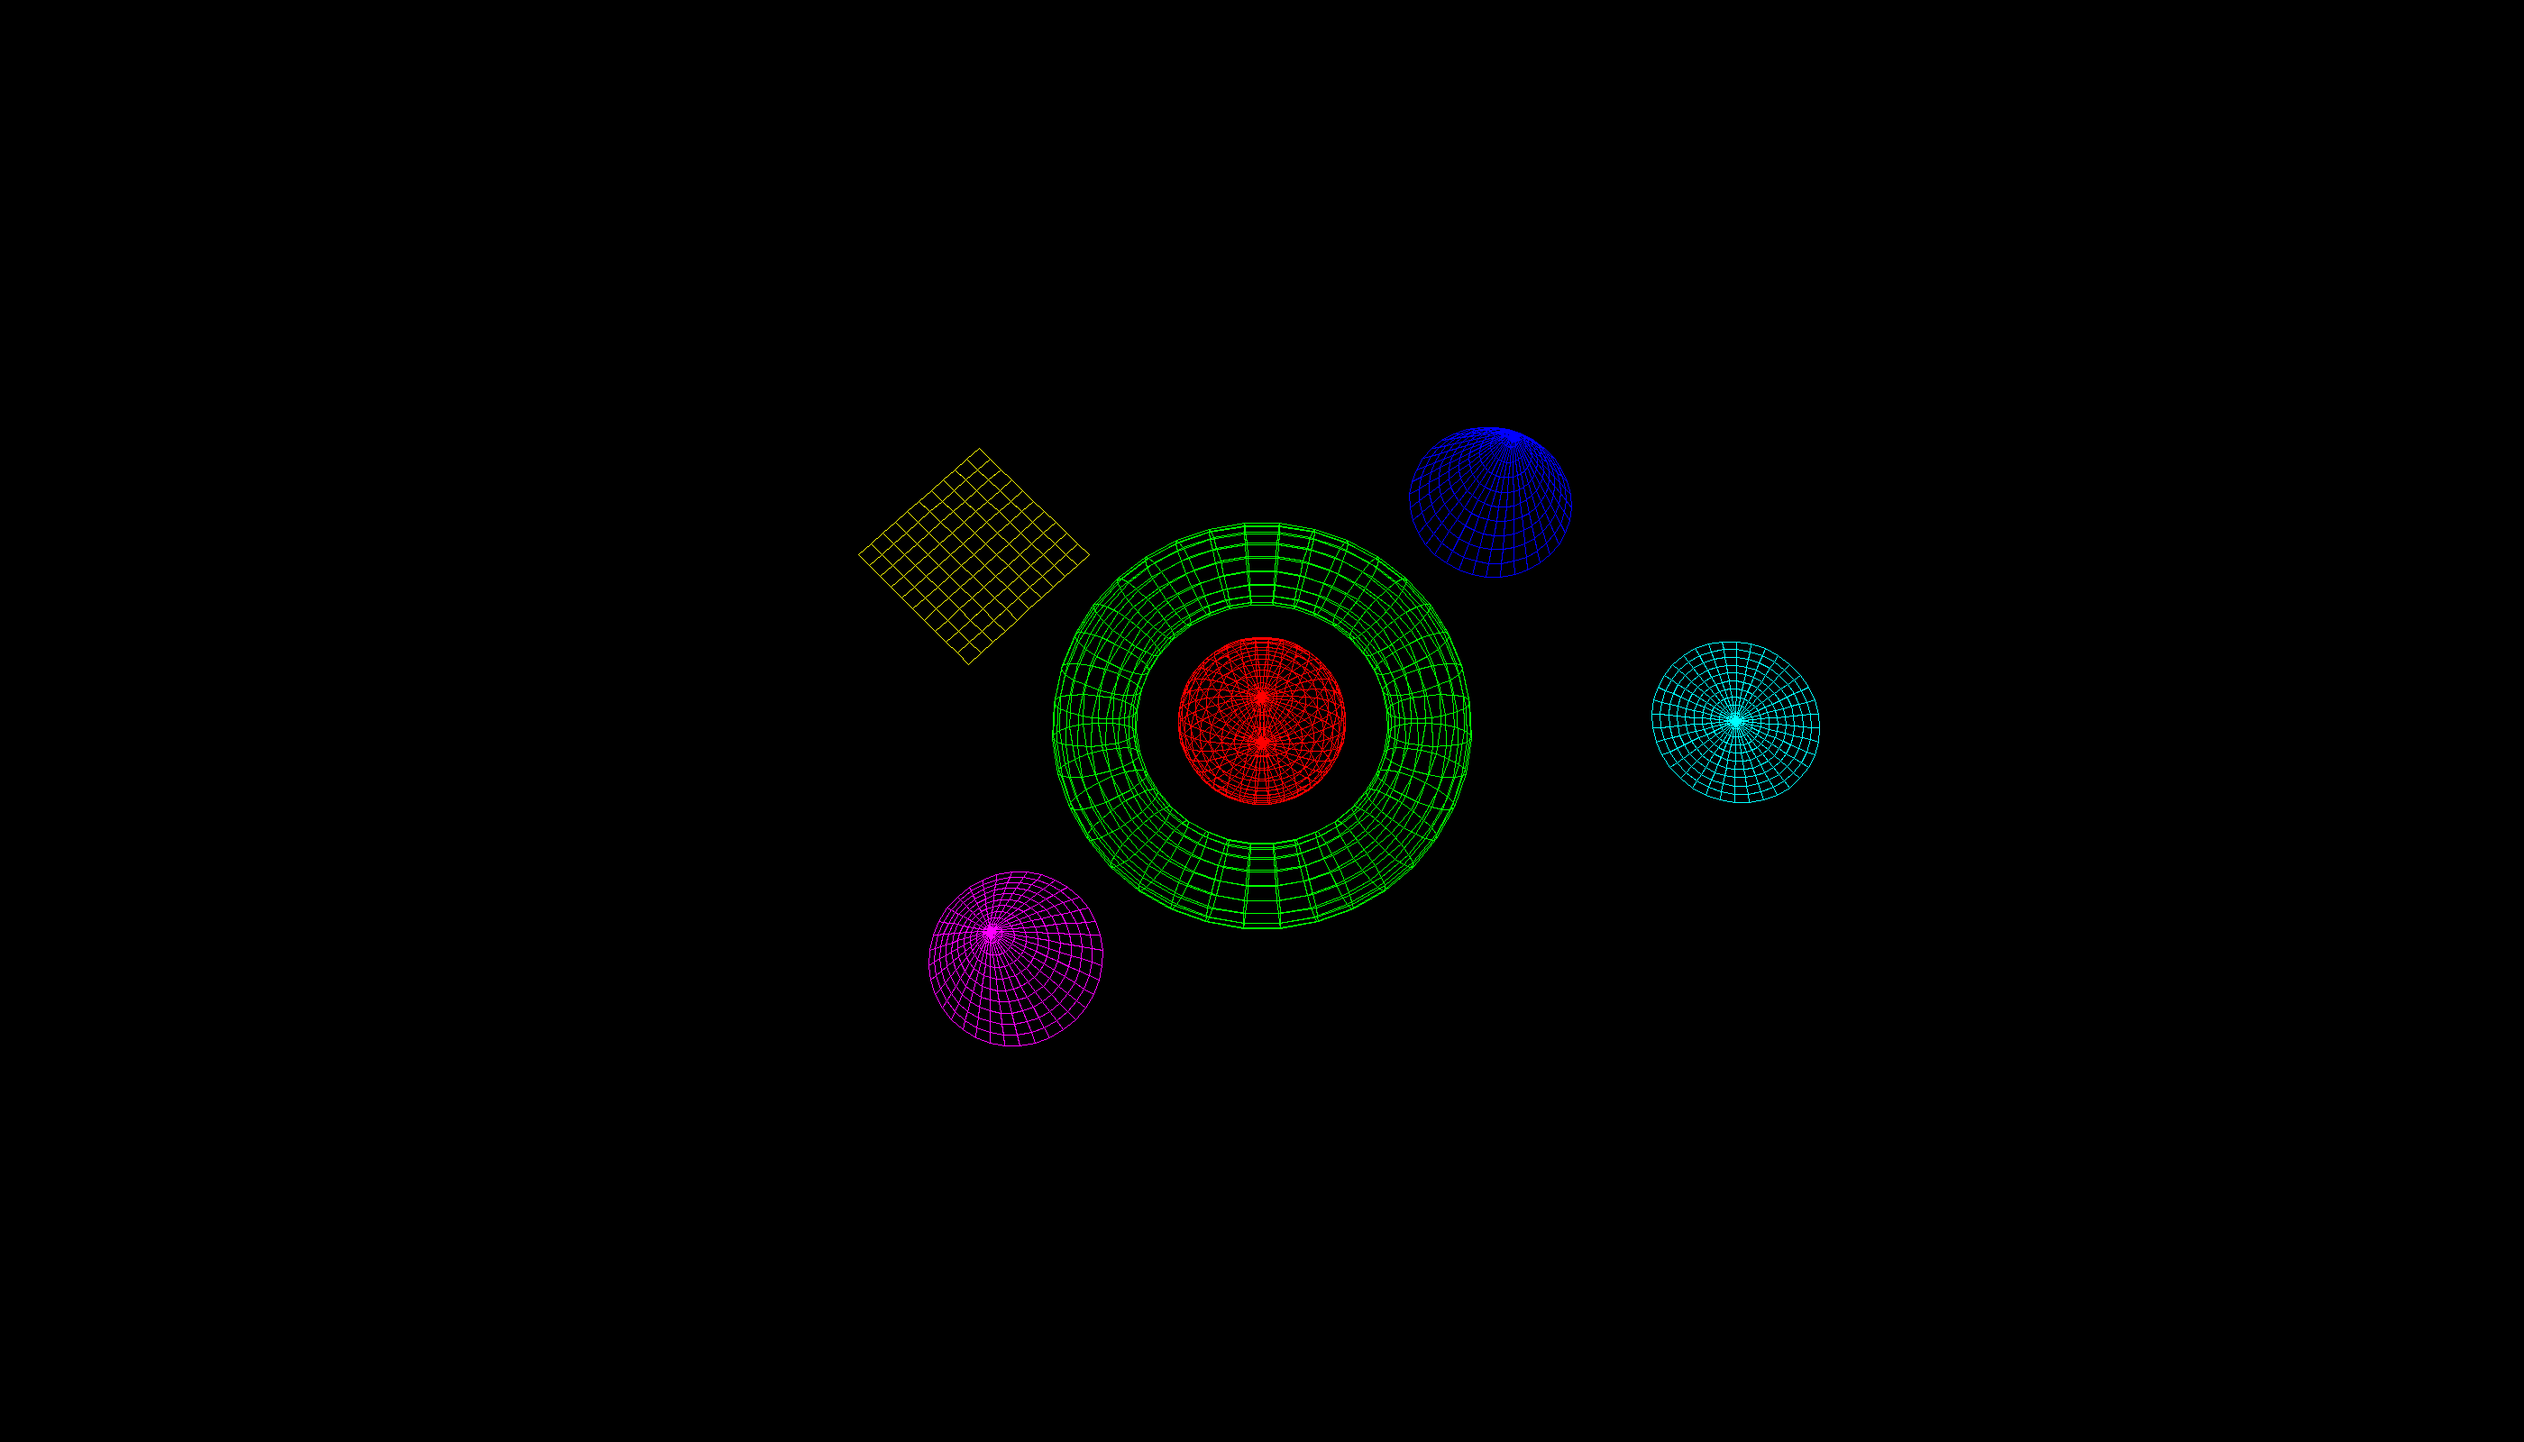
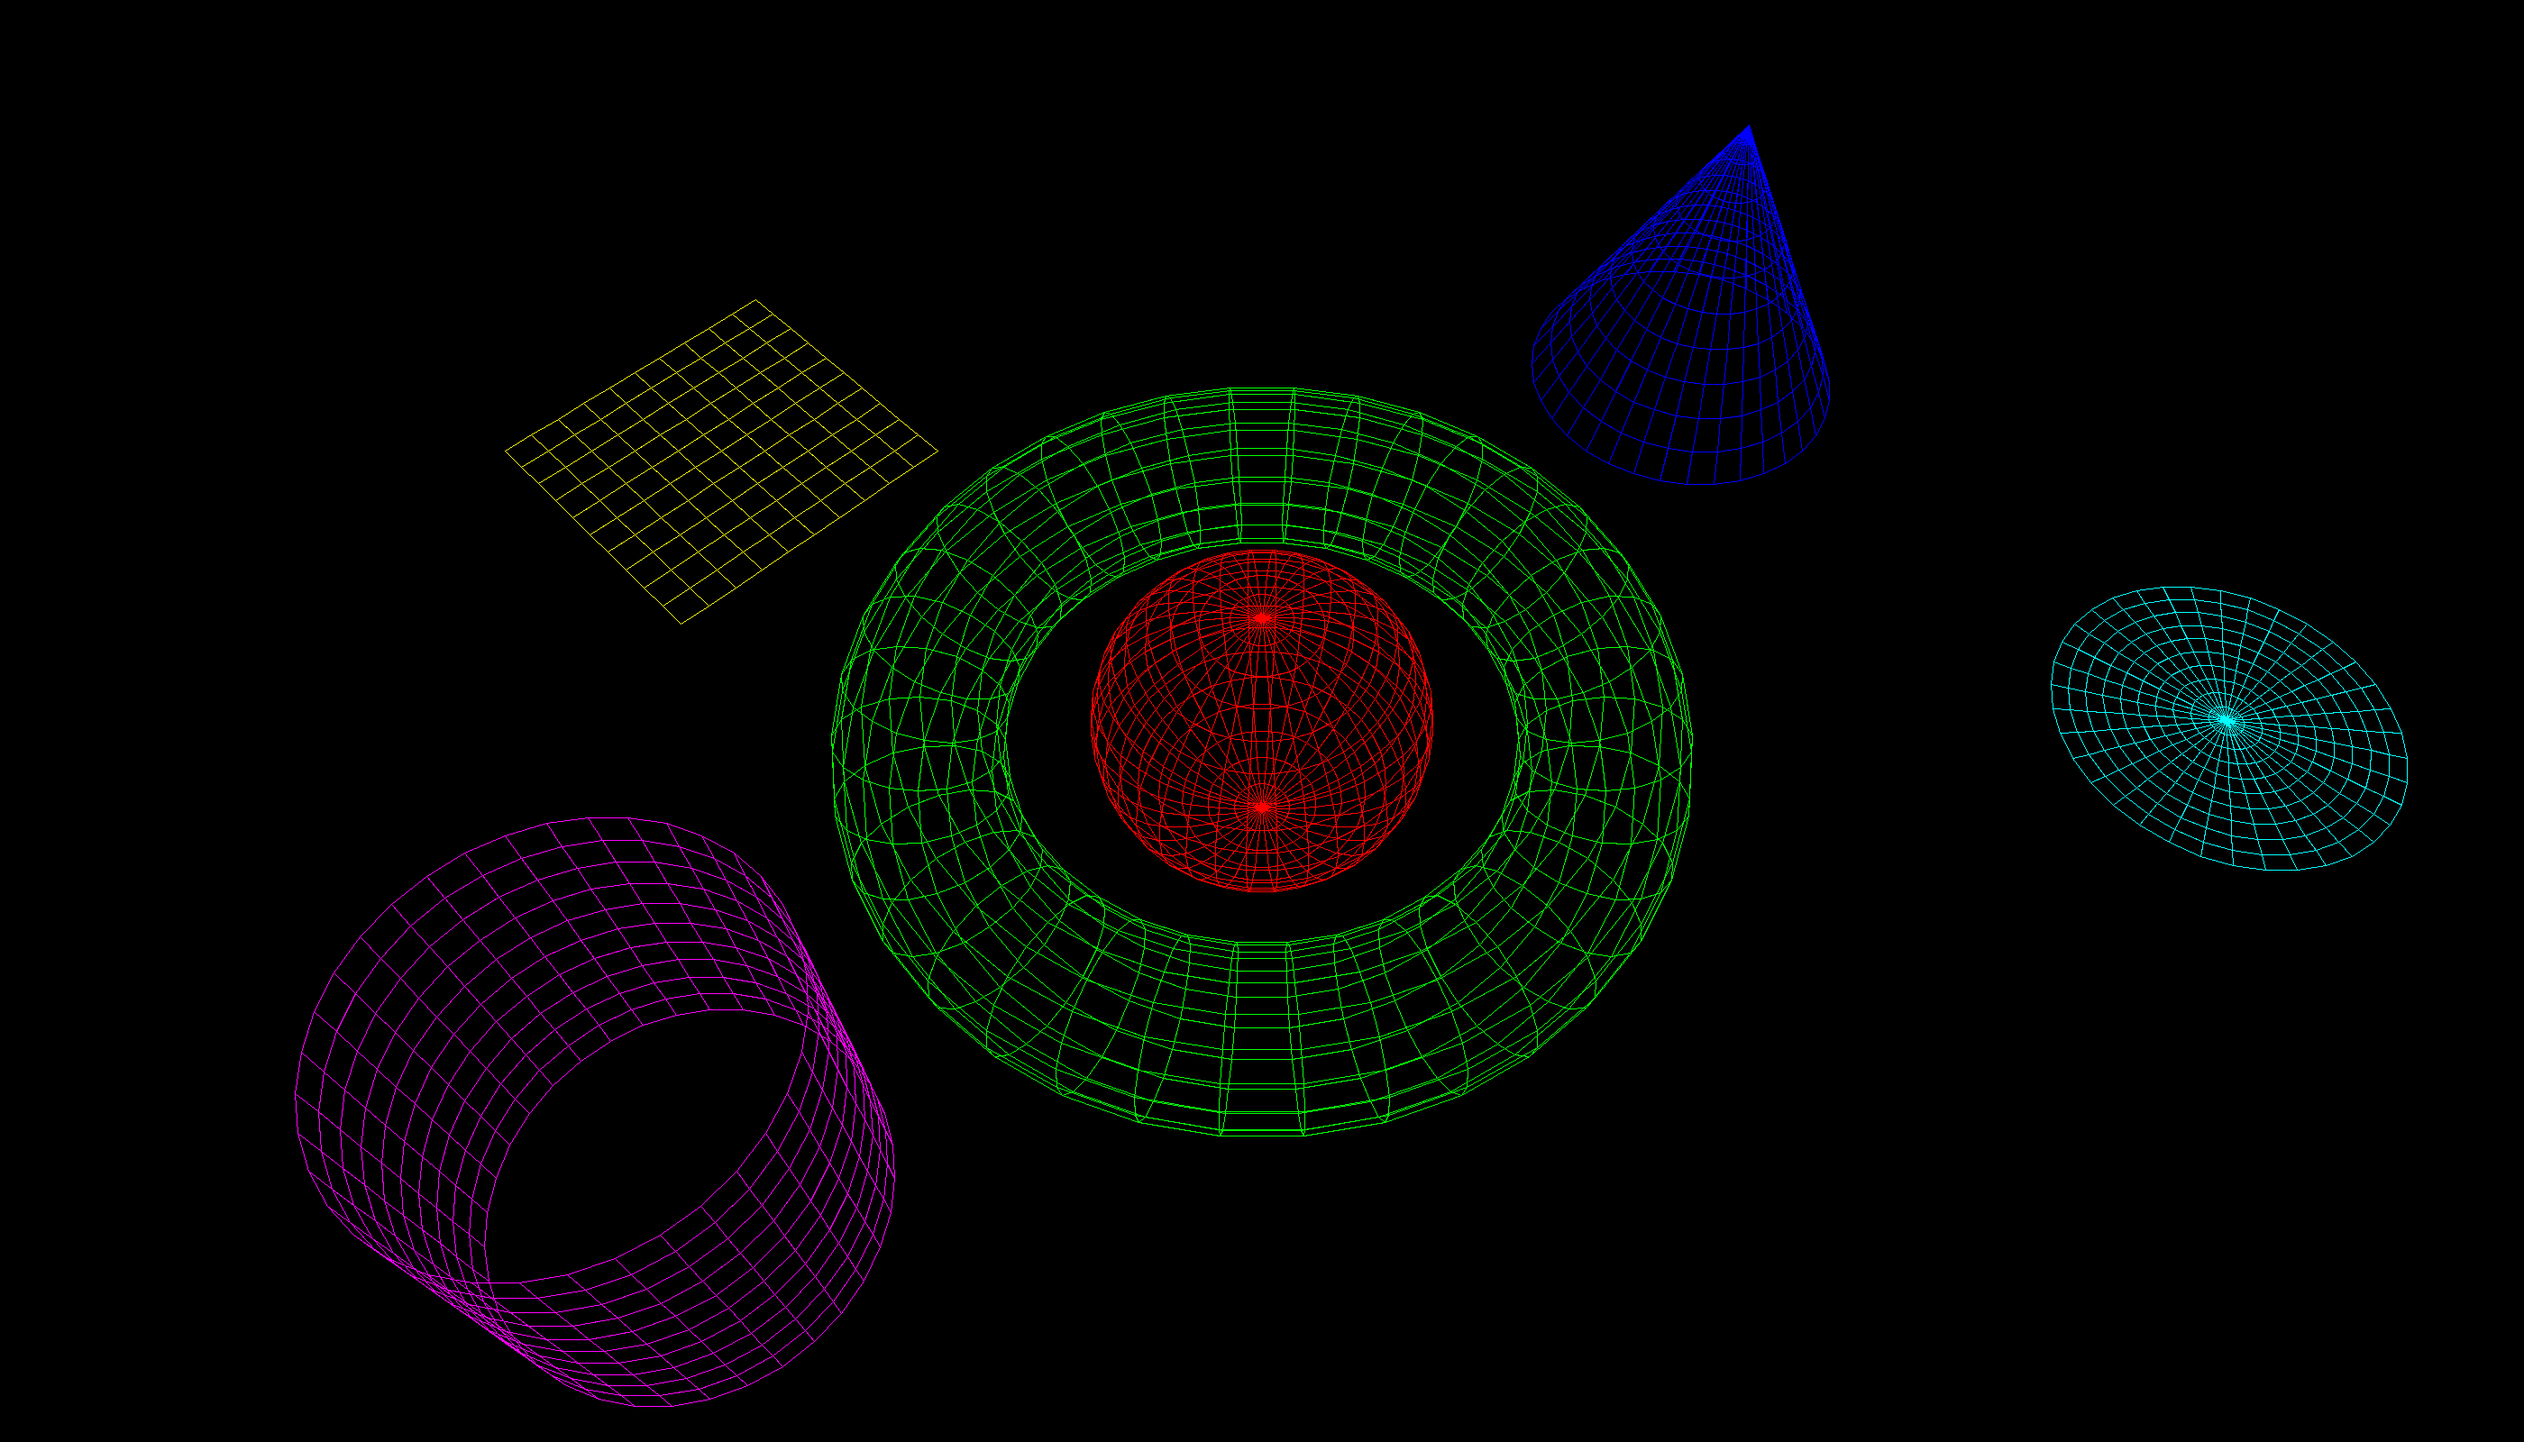
done for real now

diff --git a/parametricCylinder.py b/parametricCylinder.py
@@ -21,8 +21,8 @@ class parametricCylinder(parametricObject):
 
     def getPoint(self,u,v):
         __P = matrix(np.array([
-            [self.__height*(1-u)/self.__height*self.__radius*cos(v)],
-            [self.__height*(1-u)/self.__height*self.__radius*sin(v)],
+            [self.__radius*cos(v)],
+            [self.__radius*sin(v)],
             [self.__height*u],
             [1]
         ]))
